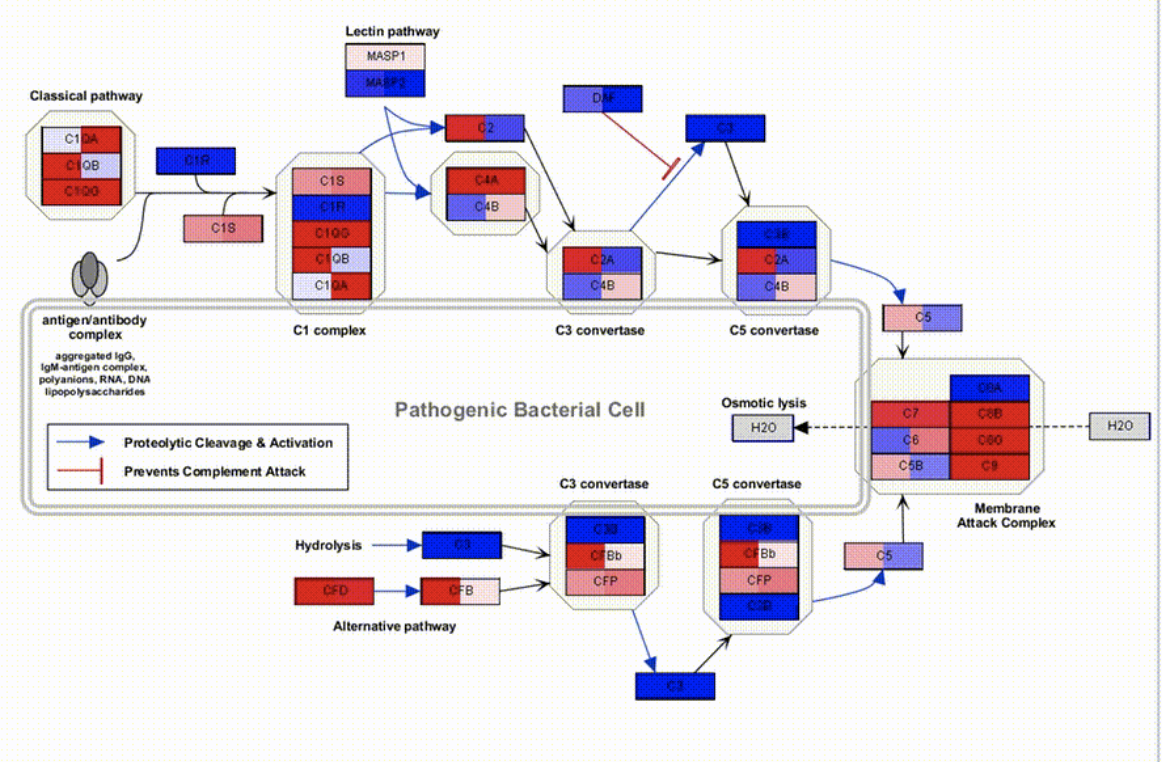
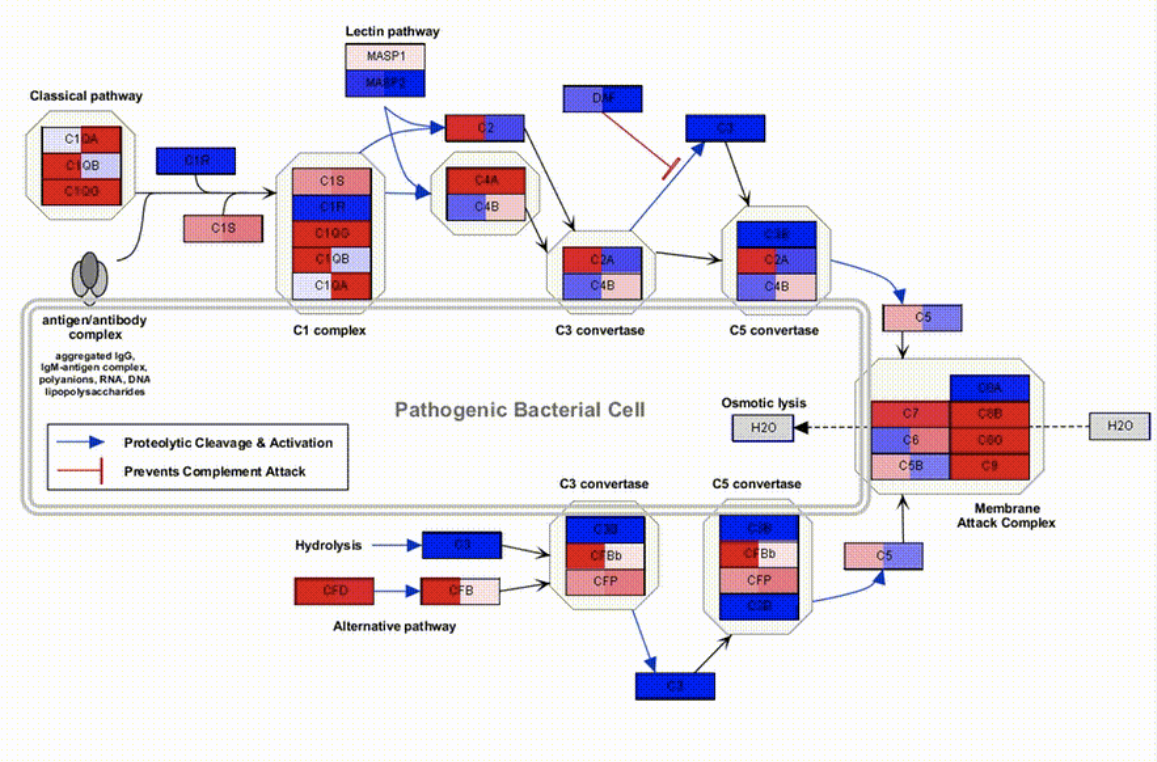
image sizing

diff --git a/stages/analysis-data-viz/index.html b/stages/analysis-data-viz/index.html
@@ -42,12 +42,12 @@
             
             <h2>Cytoscape</h2>
             <p>WikiPathways models are available in <a href="https://cytoscape.org/" target="_blank">Cytoscape</a> via the <a href="https://apps.cytoscape.org/apps/wikipathways" target="_blank">WikiPathways app</a>. For a tutorial describing three different use cases, see the <a href="https://cytoscape.org/cytoscape-tutorials/protocols/wikipathways-app/#/title" target="_blank">Cytoscape WikiPathways App Tutorial</a>.</p>
-            <img src="CellCycle_Cytoscape.png" width="550px">
+            <img src="CellCycle_Cytoscape.png" width="450px">
             
             <h2>PathVisio</h2>
             <p>PathVisio supports data visualization of WikiPathways models. The <a href="https://pathvisio.org/tutorials/visualization.html" target="_blank">Data visualization in PathVisio Tutorial</a> describes basic data visualization as well as two advanced visualizations.
                 </p>
-            <img src="ComplementActivation_PathVisio.png" width="550px">
+            <img src="ComplementActivation_PathVisio.png" width="450px">
             
             <br />
 	  <div id="next-button">
